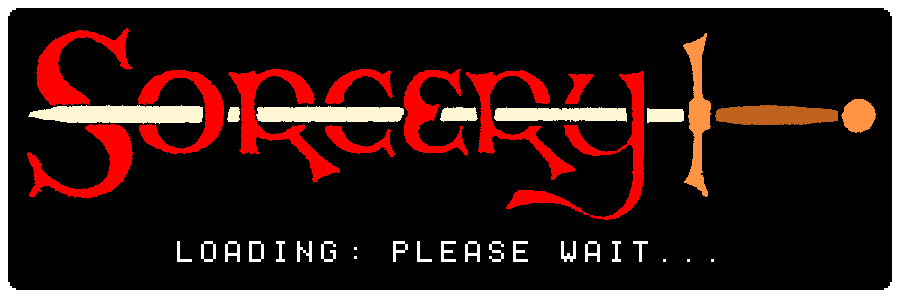
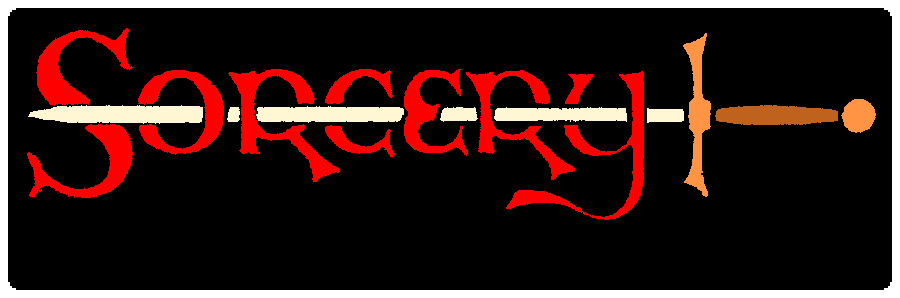
Adding Loading Progress Bar

Changed region(s): [[0.4356, 0.7852, 0.5911, 0.8758], [0.1867, 0.7852, 0.3733, 0.8758], [0.6222, 0.7852, 0.7156, 0.8758]]

diff --git a/src/core/application.cpp b/src/core/application.cpp
@@ -68,9 +68,48 @@ Sorcery::Application::Application(int argc, char **argv) {
 
 	// First set up System modules
 	_display_loading_window();
+	_update_loading_window();
 	system = std::make_unique<System>(argc, argv);
+	_update_loading_window();
 	display = std::make_unique<Display>(system.get());
+	_update_loading_window();
 	graphics = std::make_unique<Graphics>(system.get(), display.get());
+	_update_loading_window();
+
+	// Start relevant animation worker threads
+	graphics->animation->refresh_colcyc();
+	graphics->animation->start_colcycl_threads();
+	graphics->animation->refresh_wallpaper();
+	graphics->animation->start_wallpaper_threads();
+
+	// Create a Game (load the existing one if possible)
+	_game = std::make_unique<Game>(system.get(), display.get(), graphics.get());
+	_update_loading_window();
+
+	// Generate the necessary modules
+	_mainmenu = std::make_unique<MainMenu>(system.get(), display.get(), graphics.get(), _game.get());
+	_update_loading_window();
+	_license = std::make_unique<License>(system.get(), display.get(), graphics.get());
+	_update_loading_window();
+	_options = std::make_unique<Options>(system.get(), display.get(), graphics.get());
+	_update_loading_window();
+	_compendium = std::make_unique<Compendium>(system.get(), display.get(), graphics.get(), _game.get());
+	_update_loading_window();
+	_castle = std::make_unique<Castle>(system.get(), display.get(), graphics.get(), _game.get());
+	_update_loading_window();
+	_edgeoftown = std::make_unique<EdgeOfTown>(system.get(), display.get(), graphics.get(), _game.get());
+	_update_loading_window();
+	_training = std::make_unique<Training>(system.get(), display.get(), graphics.get(), _game.get());
+	_update_loading_window();
+	_tavern = std::make_unique<Tavern>(system.get(), display.get(), graphics.get(), _game.get());
+	_update_loading_window();
+	_inn = std::make_unique<Inn>(system.get(), display.get(), graphics.get(), _game.get());
+	_update_loading_window();
+	_shop = std::make_unique<Shop>(system.get(), display.get(), graphics.get(), _game.get());
+	_update_loading_window();
+	_temple = std::make_unique<Temple>(system.get(), display.get(), graphics.get(), _game.get());
+	_update_loading_window();
+	_restart = std::make_unique<Restart>(system.get(), display.get(), graphics.get(), _game.get());
 	_hide_loading_window();
 
 	if (!_check_param(SKIP_INTRO)) {
@@ -81,29 +120,6 @@ Sorcery::Application::Application(int argc, char **argv) {
 		_banner = std::make_unique<Banner>(system.get(), display.get(), graphics.get());
 		_banner->start();
 	}
-
-	// Start relevant animation worker threads
-	graphics->animation->refresh_colcyc();
-	graphics->animation->start_colcycl_threads();
-	graphics->animation->refresh_wallpaper();
-	graphics->animation->start_wallpaper_threads();
-
-	// Create a Game (load the existing one if possible)
-	_game = std::make_unique<Game>(system.get(), display.get(), graphics.get());
-
-	// Generate the necessary modules
-	_mainmenu = std::make_unique<MainMenu>(system.get(), display.get(), graphics.get(), _game.get());
-	_license = std::make_unique<License>(system.get(), display.get(), graphics.get());
-	_options = std::make_unique<Options>(system.get(), display.get(), graphics.get());
-	_compendium = std::make_unique<Compendium>(system.get(), display.get(), graphics.get(), _game.get());
-	_castle = std::make_unique<Castle>(system.get(), display.get(), graphics.get(), _game.get());
-	_edgeoftown = std::make_unique<EdgeOfTown>(system.get(), display.get(), graphics.get(), _game.get());
-	_training = std::make_unique<Training>(system.get(), display.get(), graphics.get(), _game.get());
-	_tavern = std::make_unique<Tavern>(system.get(), display.get(), graphics.get(), _game.get());
-	_inn = std::make_unique<Inn>(system.get(), display.get(), graphics.get(), _game.get());
-	_shop = std::make_unique<Shop>(system.get(), display.get(), graphics.get(), _game.get());
-	_temple = std::make_unique<Temple>(system.get(), display.get(), graphics.get(), _game.get());
-	_restart = std::make_unique<Restart>(system.get(), display.get(), graphics.get(), _game.get());
 }
 
 // Standard Destructor
@@ -547,13 +563,19 @@ auto Sorcery::Application::_display_loading_window() -> void {
 	// Hard Coded since we don't have access to any file resources at this point
 	const std::filesystem::path base_path{_get_exe_path()};
 	const std::filesystem::path image_path{base_path / GRAPHICS_DIR / LOADING_IMAGE};
+	const std::filesystem::path font_path{base_path / DATA_DIR / MONO_FONT_FILE};
 	auto scale{0.75f};
-
 	sf::Image loading{};
 	loading.loadFromFile(image_path.string());
 
 	const sf::Vector2u splash_size{
 		static_cast<unsigned int>(loading.getSize().x * scale), static_cast<unsigned int>(loading.getSize().y * scale)};
+
+	_load_font.loadFromFile(font_path);
+	_load_text.setFont(_load_font);
+	_load_text.setColor(sf::Color::White);
+	_load_text.setCharacterSize(24);
+	_load_text.setPosition(16, splash_size.y - 48);
 
 	// can't use sf::Style::None here due to None being defined somewhere else (no I don't know either), so use 0
 	_load_window.create(sf::VideoMode(splash_size.x, splash_size.y), "Sorcery: Shadows under Llylgamyn", 0);
@@ -568,13 +590,22 @@ auto Sorcery::Application::_display_loading_window() -> void {
 	sprite.setPosition(0, 0);
 	sprite.setScale(scale, scale);
 	_load_window.draw(sprite);
-
 	_load_window.display();
 }
 
 auto Sorcery::Application::_hide_loading_window() -> void {
 
 	_load_window.close();
+}
+
+auto Sorcery::Application::_update_loading_window() -> void {
+
+	static std::string message{"LOADING"};
+
+	message.append(".");
+	_load_text.setString(message);
+	_load_window.draw(_load_text);
+	_load_window.display();
 }
 
 // This is linux only

diff --git a/inc/core/application.hpp b/inc/core/application.hpp
@@ -86,6 +86,7 @@ class Application {
 		auto _check_param(std::string_view parameter) const -> bool;
 		auto _display_loading_window() -> void;
 		auto _hide_loading_window() -> void;
+		auto _update_loading_window() -> void;
 		auto _get_exe_path() const -> std::string_view;
 		auto _quickstart() -> void;
 		auto _start_expedition() -> std::optional<MenuItem>;
@@ -114,6 +115,8 @@ class Application {
 		std::unique_ptr<Restart> _restart;
 		std::vector<std::string> _arguments;
 		sf::RenderWindow _load_window;
+		sf::Font _load_font;
+		sf::Text _load_text;
 };
 
 }
